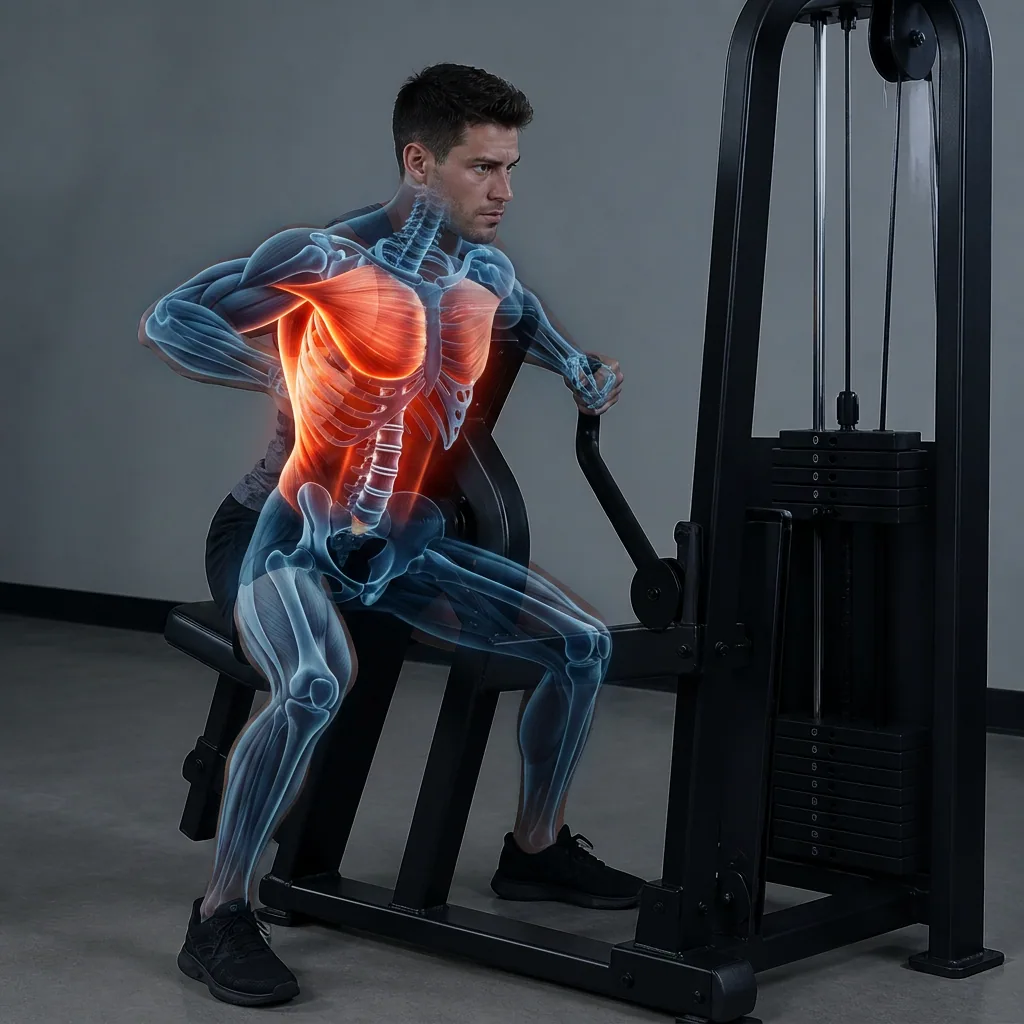
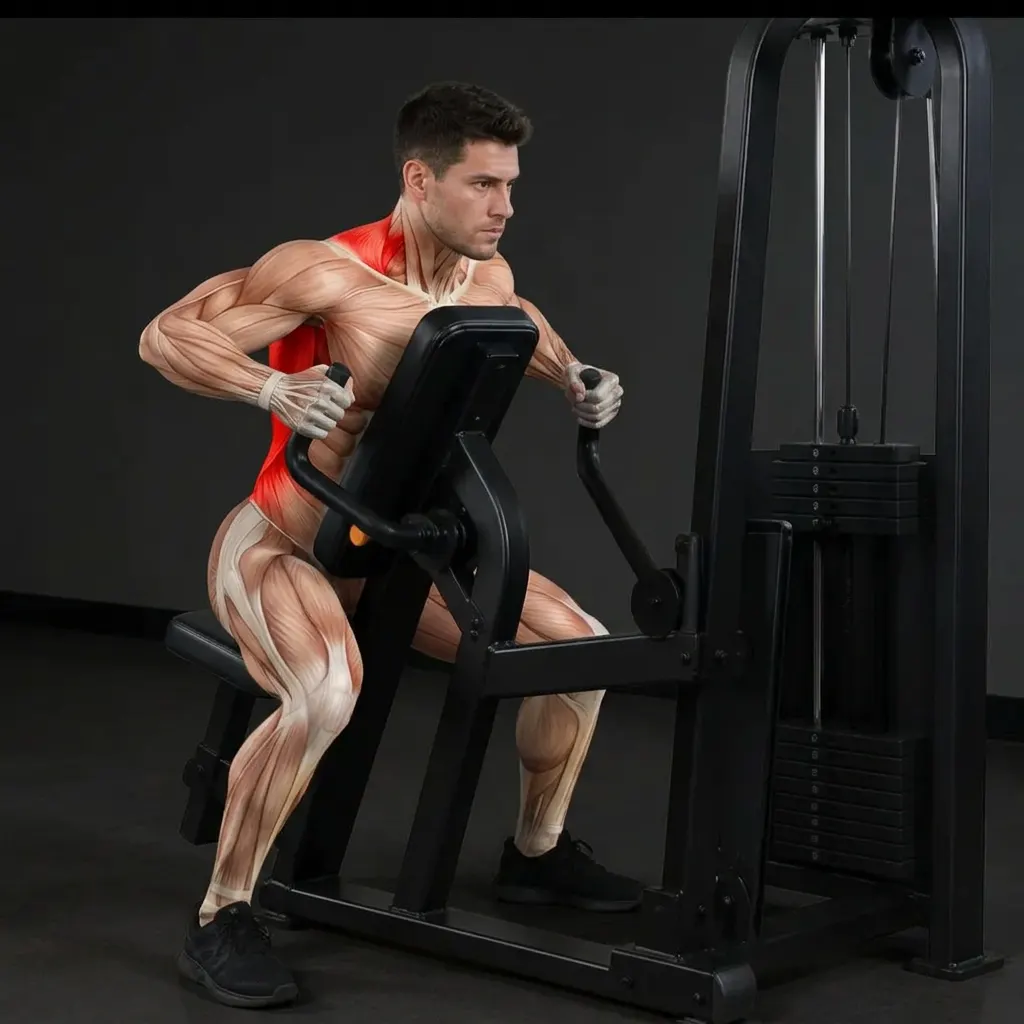
Varredura das imagens: 36 camadas de analise refeitas, 2 recusadas com motivo
AVALIACAO DE TUDO, MEDIDA ANTES DE MEXER. 101 exercicios, 4 famílias de
imagem. O que estava INTEIRO: as 101 fotos de execucao, os 284 erros
(conferidos nos dois formatos: duas figuras lado a lado, V verde, X
vermelho e seta de desvio) e as 191 variacoes. Nenhum arquivo quebrado,
nenhum de formato errado, nenhum orfao no disco.

O BURACO ESTAVA TODO NA CAMADA DE ANALISE. Varri as 91 com o olho, em
contact sheets, e achei quatro problemas distintos:

- 10 exercicios SEM camada de analise nenhuma.
- 8 com o ROSTO ESFOLADO: cabeca sem pele, musculatura facial exposta ou
  cranio. A de respiracao-360 era a pior, com VISCERAS a mostra.
- 9 com a pessoa VESTIDA e uma mancha vermelha por cima do tecido, que nao
  mostra musculo nenhum e nao faz o trabalho da camada de analise.
- 10 num estilo COMPLETAMENTE DIFERENTE: boneco anatomico azul/ciano com
  esqueleto, ao lado de 60 imagens bege fotorrealistas.
- 1 translucida e lavada.

REFEITAS 36, uma a uma, via img2img no Lovable, com a foto de execucao
como semente de POSE e uma analise boa como semente de ESTILO. Cada lote
foi conferido com os proprios olhos antes de instalar; nenhuma entrou no
repo sem eu olhar. Otimizacao que vale registrar: em vez de subir uma
semente por imagem, subi UMA TIRA com varios paineis rotulados e o agente
recortou sozinho, o que trocou ~40 uploads por 8.

DUAS RECUSADAS, E ISSO E RESULTADO, NAO FALHA. O codigo ja explicava por
que elas nao tinham analise, e o motivo continua valendo:
[…]

diff --git a/scripts/check-catalogo.ts b/scripts/check-catalogo.ts
@@ -255,6 +255,41 @@ for (const e of exercises) {
   }
 }
 
+/* ------------- A CAMADA DE ANÁLISE OU EXISTE OU É EXCEÇÃO DECLARADA ------------- */
+/*
+ * A varredura de imagens de 19/08/2026 achou 10 exercícios sem `imagemAnalise` e 28 com uma
+ * imagem que não servia (rosto sem pele, vísceras à mostra, boneco azul de outro estilo, ou a
+ * pessoa VESTIDA com uma mancha vermelha por cima do tecido, que não mostra músculo nenhum).
+ * As 36 que dava para refazer foram refeitas.
+ *
+ * As DUAS que sobraram não são esquecimento, são decisão anatômica, e por isso ficam nomeadas
+ * aqui em vez de sumirem numa contagem:
+ *
+ * - `scaption`: o primário é o SUPRAESPINAL, que corre por baixo do deltoide e do trapézio.
+ *   Ele não aparece em superfície nenhuma, então uma camada de análise que pintasse o deltoide
+ *   de vermelho estaria mostrando o músculo ERRADO como se fosse o principal.
+ * - `puxada-supinada`: o primário é o LATÍSSIMO DO DORSO, que fica nas COSTAS, e a foto de
+ *   execução é uma vista FRONTAL.
+ *
+ * A lista é fechada de propósito: exercício novo que nascer sem análise reprova aqui e obriga
+ * quem o criou a gerar a imagem ou a escrever por que ela não pode existir. Ausência com
+ * motivo é honestidade; ausência silenciosa é buraco.
+ */
+const SEM_ANALISE_COM_MOTIVO = new Set(["scaption", "puxada-supinada"]);
+
+for (const e of exercises) {
+  const temAnalise = Boolean(e.imagemAnalise);
+  const ehExcecao = SEM_ANALISE_COM_MOTIVO.has(e.slug);
+  if (!temAnalise && !ehExcecao)
+    problemas.push(
+      `[${e.slug}]: sem imagem de análise e sem estar na lista de exceções com motivo anatômico. Gere a imagem ou declare por que ela não pode existir.`,
+    );
+  if (temAnalise && ehExcecao)
+    problemas.push(
+      `[${e.slug}]: está na lista de exceções por motivo anatômico e mesmo assim declara imagem de análise. Uma das duas coisas está errada.`,
+    );
+}
+
 /* ------------- Regra dura: imagem declarada existe mesmo no disco ------------- */
 /*
  * O TypeScript compila feliz com "/exercises/erros/scaption-0.webp" mesmo que o

diff --git a/src/data/exercises-extra3.ts b/src/data/exercises-extra3.ts
@@ -55,6 +55,7 @@ export const extraExercises3: Exercise[] = [
       "Rotação externa com o cotovelo junto ao tronco: o exercício de manguito mais fácil de ensinar e de fazer em casa, porque o próprio corpo limita a compensação.",
     anguloArticular: "0 graus de abdução, cotovelo a 90 graus",
 imagem: "/exercises/rotacao-externa-elastico.webp",
+    imagemAnalise: "/exercises/rotacao-externa-elastico-analysis.webp",
     modalidade: "m-musculacao",
     ativacao: [
       { musculo: "Infraespinal", percentual: 55, papel: "primário" },
@@ -136,6 +137,7 @@ imagem: "/exercises/rotacao-externa-elastico.webp",
       "A posição com maior atividade medida do infraespinal e do redondo menor: deitado de lado, o peso do halter resiste exatamente onde o manguito trabalha.",
     anguloArticular: "0 graus de abdução, cotovelo a 90 graus",
 imagem: "/exercises/rotacao-externa-deitado.webp",
+    imagemAnalise: "/exercises/rotacao-externa-deitado-analysis.webp",
     modalidade: "m-musculacao",
     ativacao: [
       { musculo: "Infraespinal", percentual: 62, papel: "primário" },
@@ -216,6 +218,7 @@ imagem: "/exercises/rotacao-externa-deitado.webp",
       "O lado de dentro do manguito, que quase nunca é treinado: o subescapular é o único rotador interno profundo e faz par com os rotadores externos.",
     anguloArticular: "0 graus de abdução, cotovelo a 90 graus",
 imagem: "/exercises/rotacao-interna-elastico.webp",
+    imagemAnalise: "/exercises/rotacao-interna-elastico-analysis.webp",
     modalidade: "m-musculacao",
     ativacao: [
       { musculo: "Subescapular", percentual: 50, papel: "primário" },

diff --git a/src/data/exercises-emagrecimento.ts b/src/data/exercises-emagrecimento.ts
@@ -101,6 +101,7 @@ export const exerciciosEmagrecimento: Exercise[] = [
     articulacaoPredominante: "Cotovelo e escápula",
     premium: false,
     imagem: "/exercises/remada-invertida-apoio-alto.webp",
+    imagemAnalise: "/exercises/remada-invertida-apoio-alto-analysis.webp",
     resumoPratico:
       "Puxar horizontal com o peso do corpo numa barra ou bancada na altura do quadril: quanto mais alto o apoio, mais em pé fica o tronco e mais leve fica a puxada. É a porta de entrada do padrão de puxar para quem treina em casa.",
     modalidade: "m-musculacao",
@@ -180,6 +181,7 @@ export const exerciciosEmagrecimento: Exercise[] = [
     articulacaoPredominante: "Joelho e quadril",
     premium: false,
     imagem: "/exercises/agachamento-aquatico.webp",
+    imagemAnalise: "/exercises/agachamento-aquatico-analysis.webp",
     resumoPratico:
       "Agachar dentro da piscina, com a água na altura do peito: o empuxo tira parte do peso na descida e a resistência da água cobra na subida. É o padrão de agachar para quem só tem a piscina como ambiente.",
     modalidade: "m-hidro",

diff --git a/src/data/exercises-isometricos.ts b/src/data/exercises-isometricos.ts
@@ -99,6 +99,7 @@ export const exerciciosIsometricos: Exercise[] = [
     premium: false,
     doseIsometrica: true,
     imagem: "/exercises/agachamento-isometrico-parede.webp",
+    imagemAnalise: "/exercises/agachamento-isometrico-parede-analysis.webp",
     resumoPratico:
       "Contração sustentada com as costas apoiadas na parede e os joelhos dobrados, mantida por tempo. É o submodo isométrico com maior efeito sobre a pressão sistólica na metanálise em rede, e não precisa de nenhum equipamento.",
     modalidade: "m-musculacao",
@@ -187,6 +188,7 @@ export const exerciciosIsometricos: Exercise[] = [
     premium: false,
     doseIsometrica: true,
     imagem: "/exercises/preensao-isometrica-handgrip.webp",
+    imagemAnalise: "/exercises/preensao-isometrica-handgrip-analysis.webp",
     resumoPratico:
       "Apertar e sustentar um dinamômetro ou aparelho de preensão por tempo. É o formato isométrico mais estudado para pressão arterial e o mais fácil de fazer sentado, sem carga sobre articulação de membro inferior.",
     modalidade: "m-musculacao",

diff --git a/src/data/exercises-extra7.ts b/src/data/exercises-extra7.ts
@@ -692,6 +692,7 @@ imagem: "/exercises/punho-halter.webp",
       "Caminhar com peso em uma mão só: o quadrado lombar do lado oposto trabalha o percurso inteiro para o tronco não tombar.",
     anguloArticular: "Postura ereta com carga assimétrica",
     imagem: "/exercises/suitcase-carry.webp",
+    imagemAnalise: "/exercises/suitcase-carry-analysis.webp",
     modalidade: "m-funcional",
     ativacao: [
       { musculo: "Quadrado lombar", percentual: 60, papel: "primário" },
